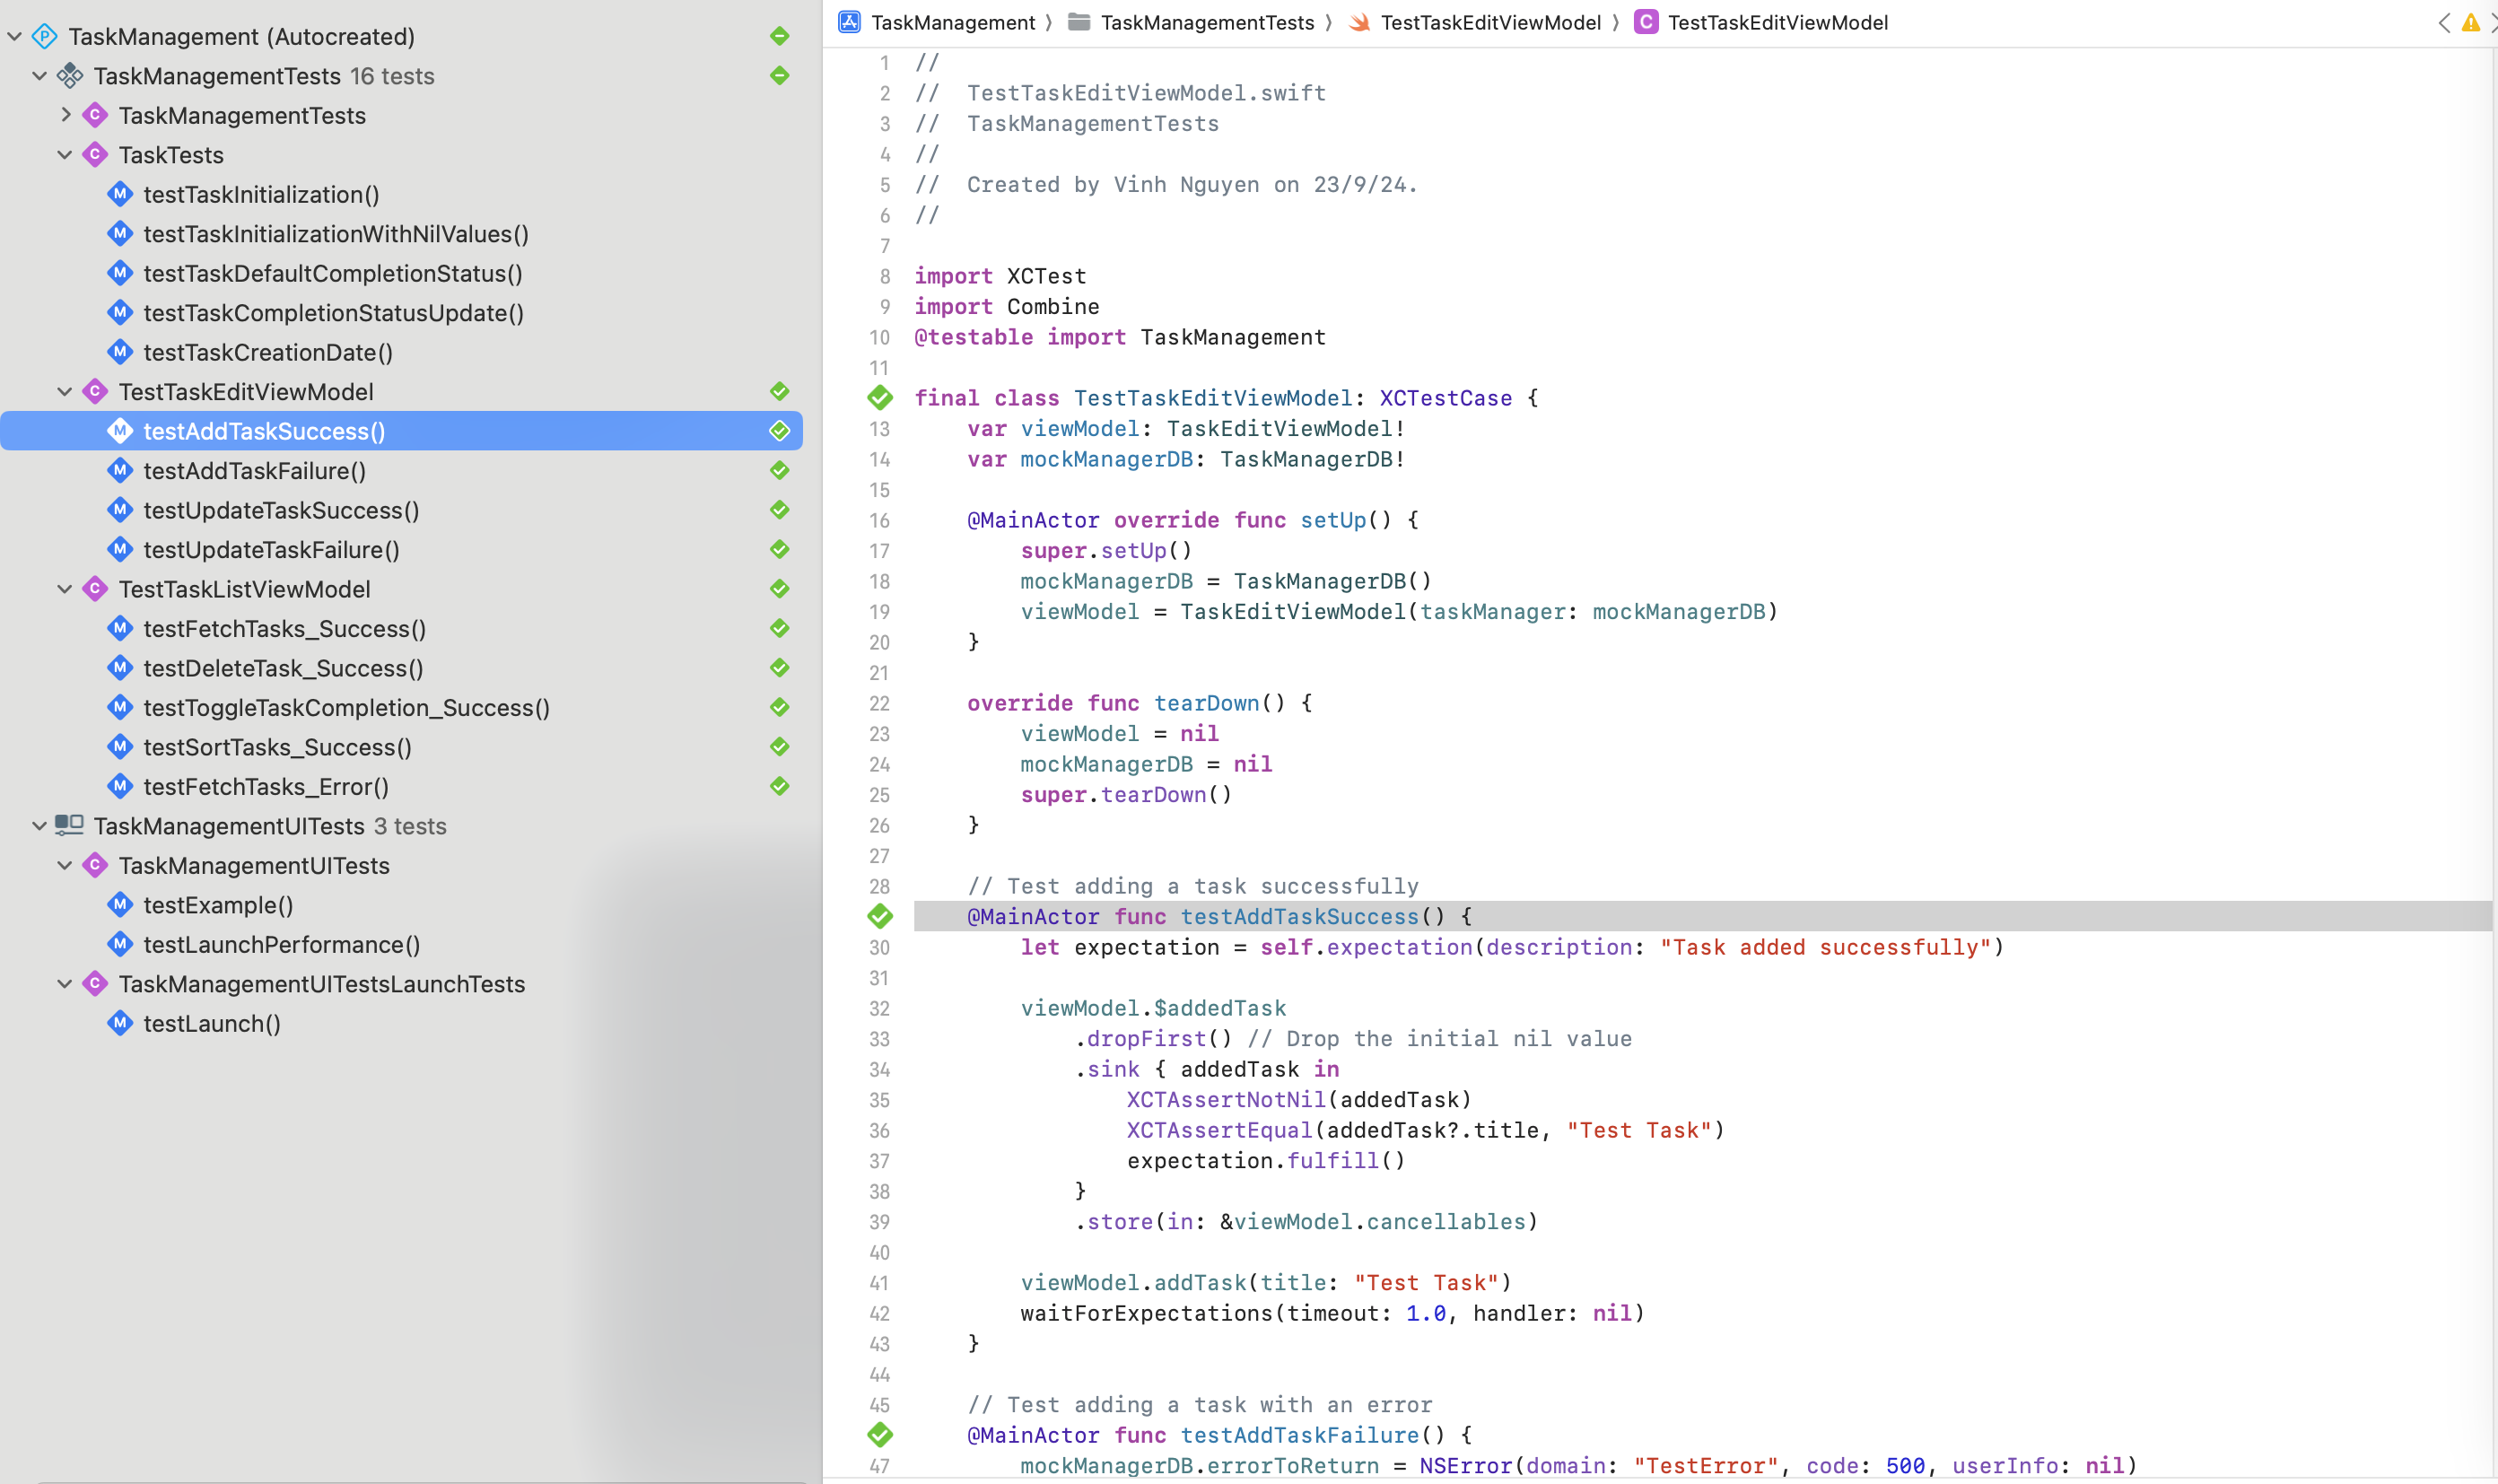
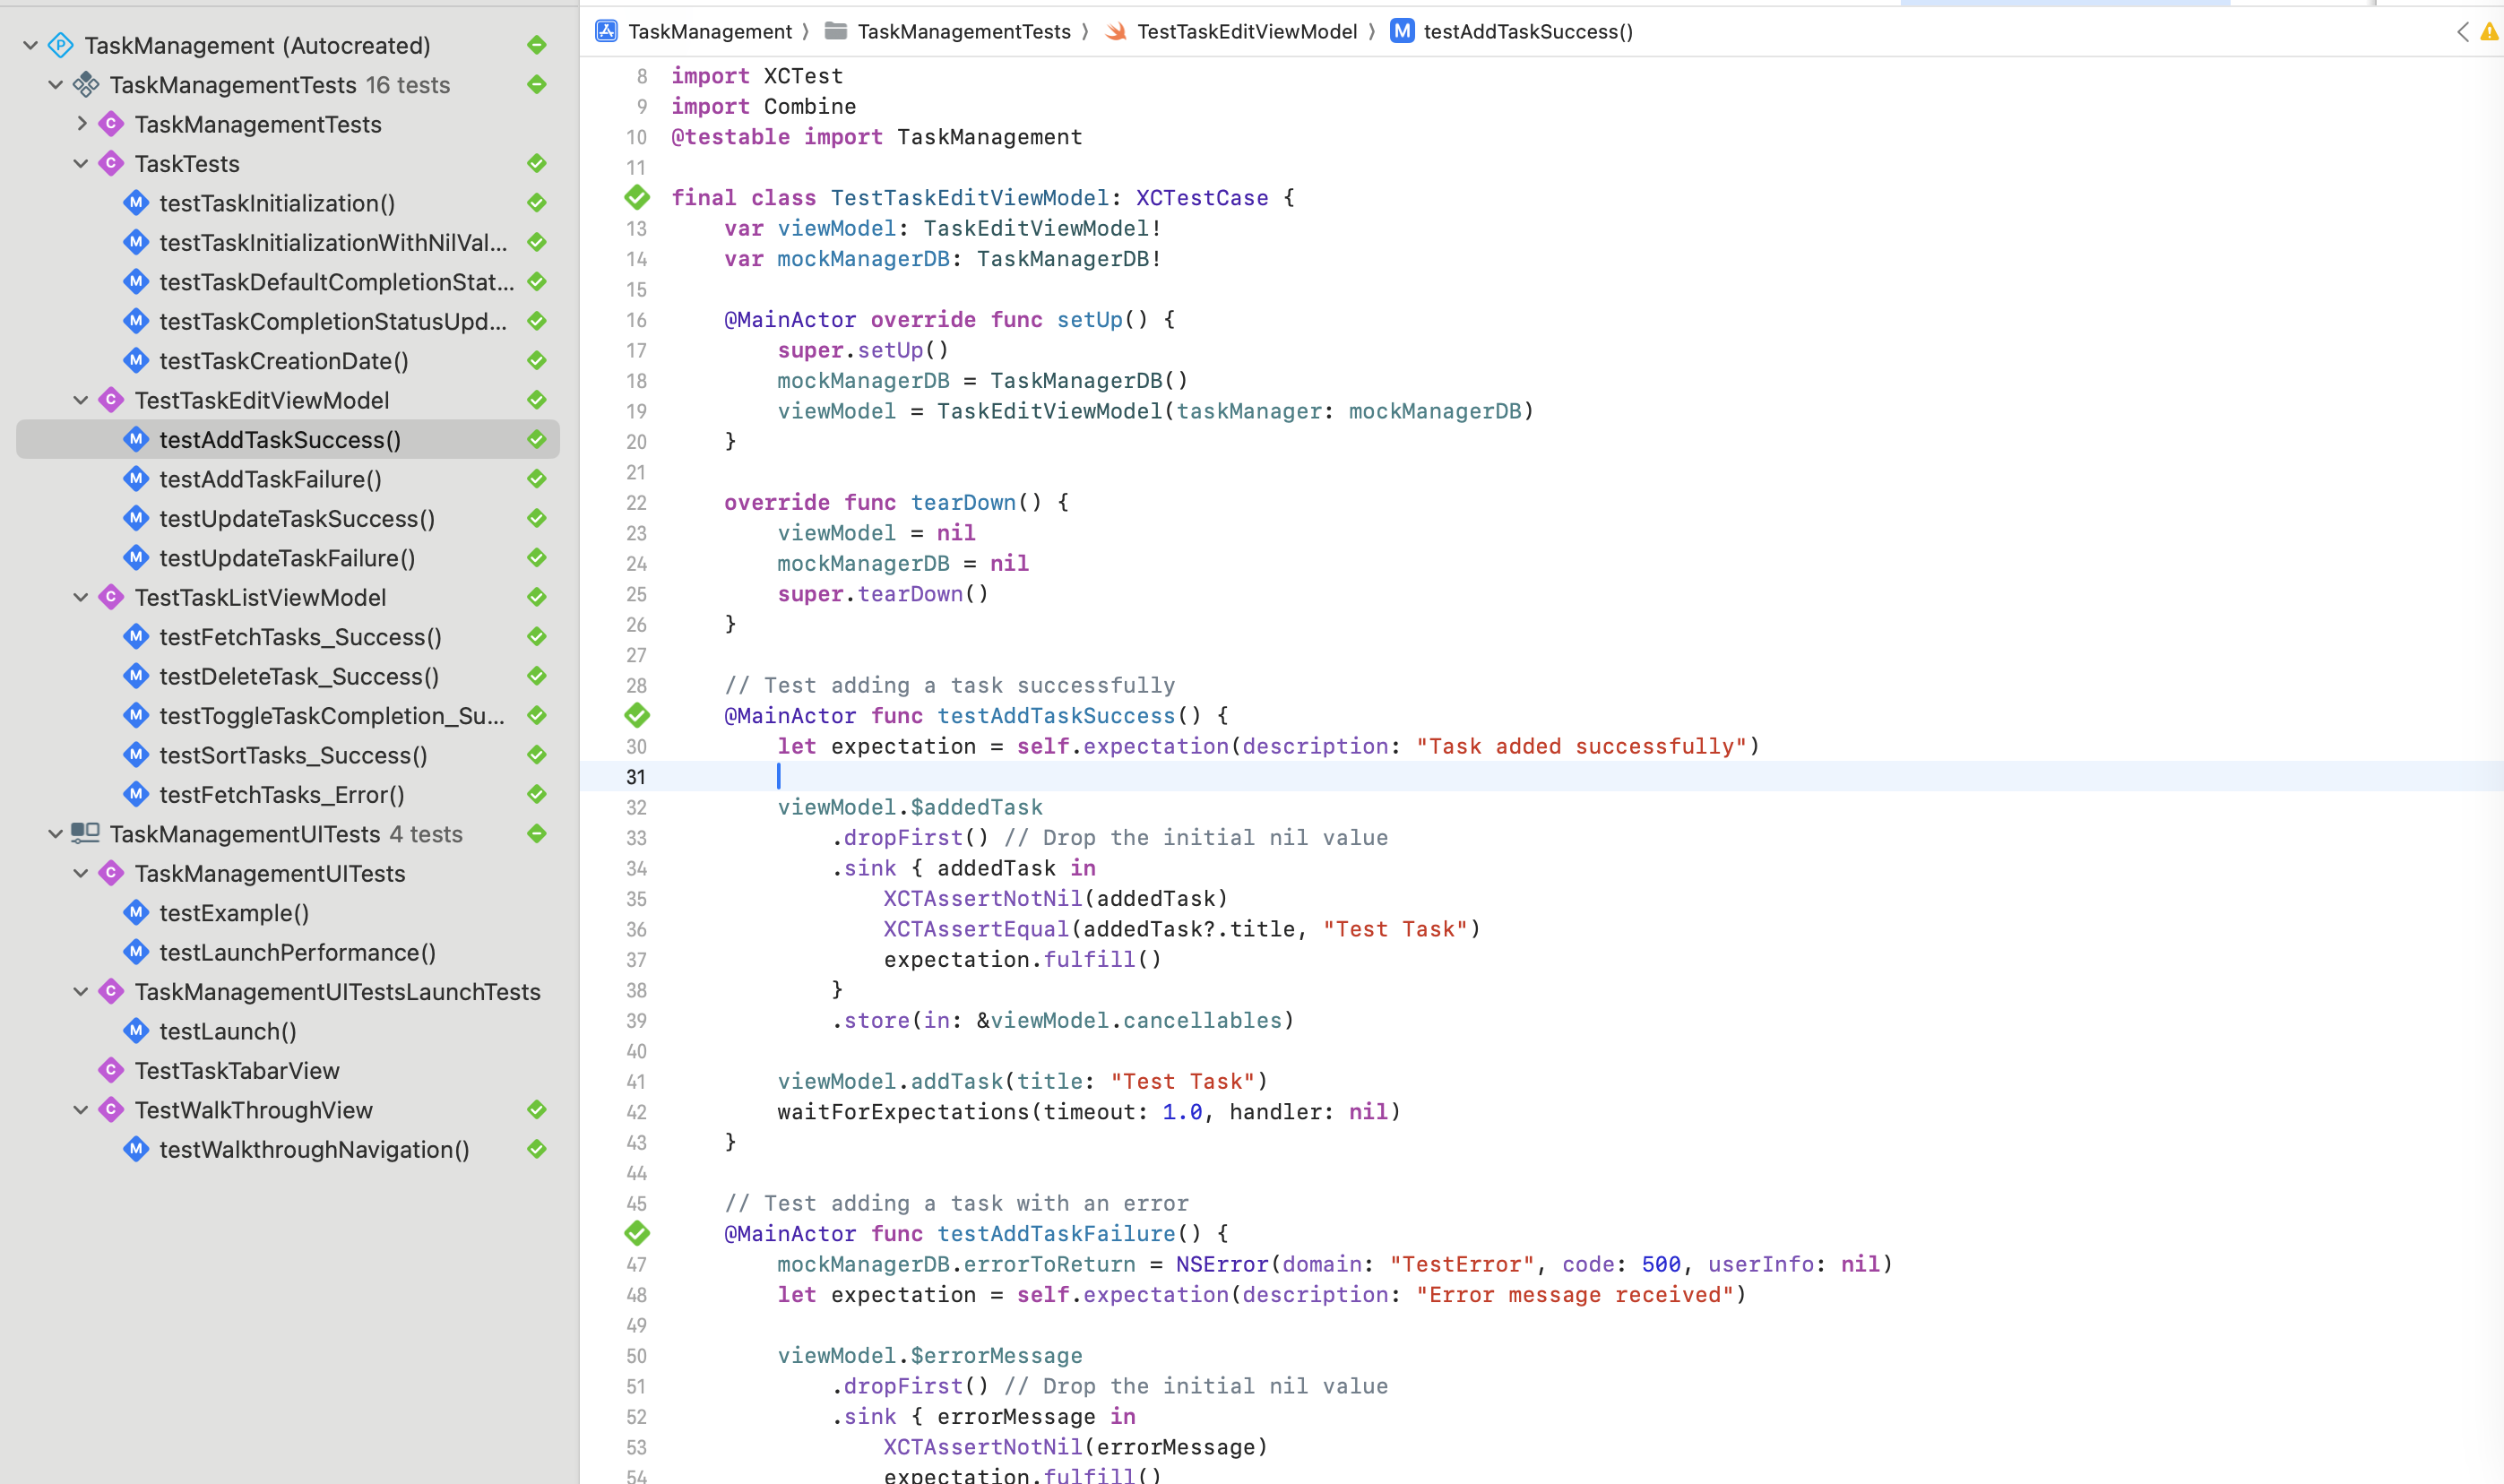
test coverage

diff --git a/TaskManagementTests/TaskTest.swift b/TaskManagementTests/TaskTest.swift
@@ -53,7 +53,6 @@ class TaskTests: XCTestCase {
         
         XCTAssertEqual(task.title, title)
         XCTAssertNil(task.startDate)
-        XCTAssertNil(task.dueDate)
         XCTAssertNil(task.estimateHour)
         XCTAssertNotNil(task.priority)
         XCTAssertNotNil(task.category)